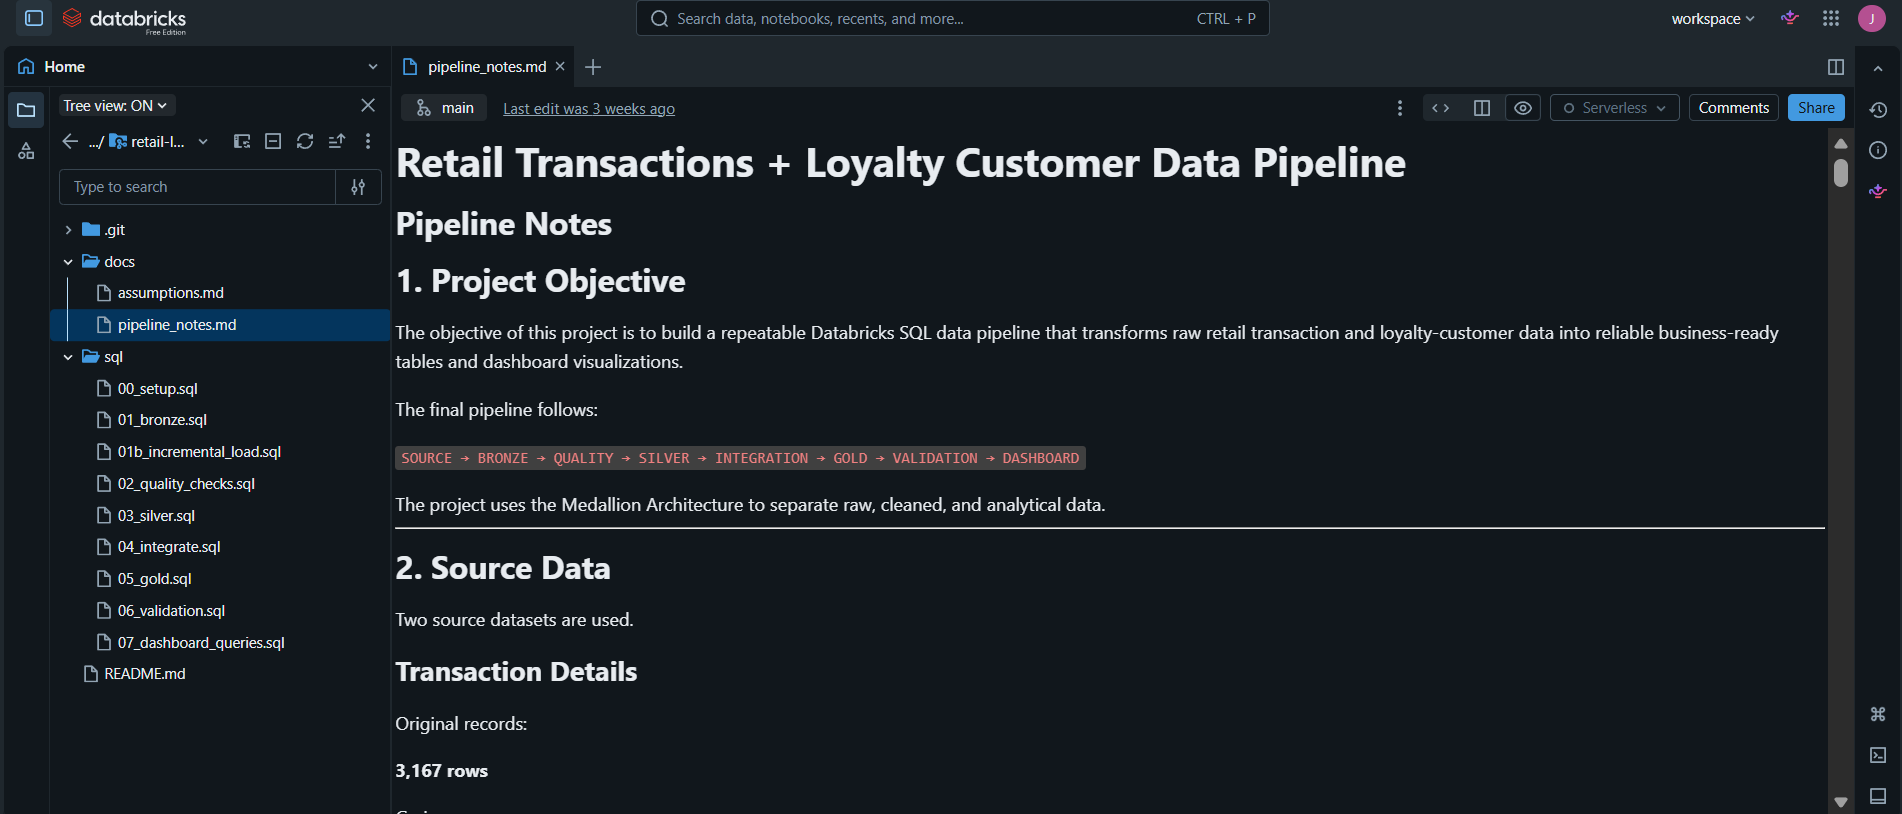
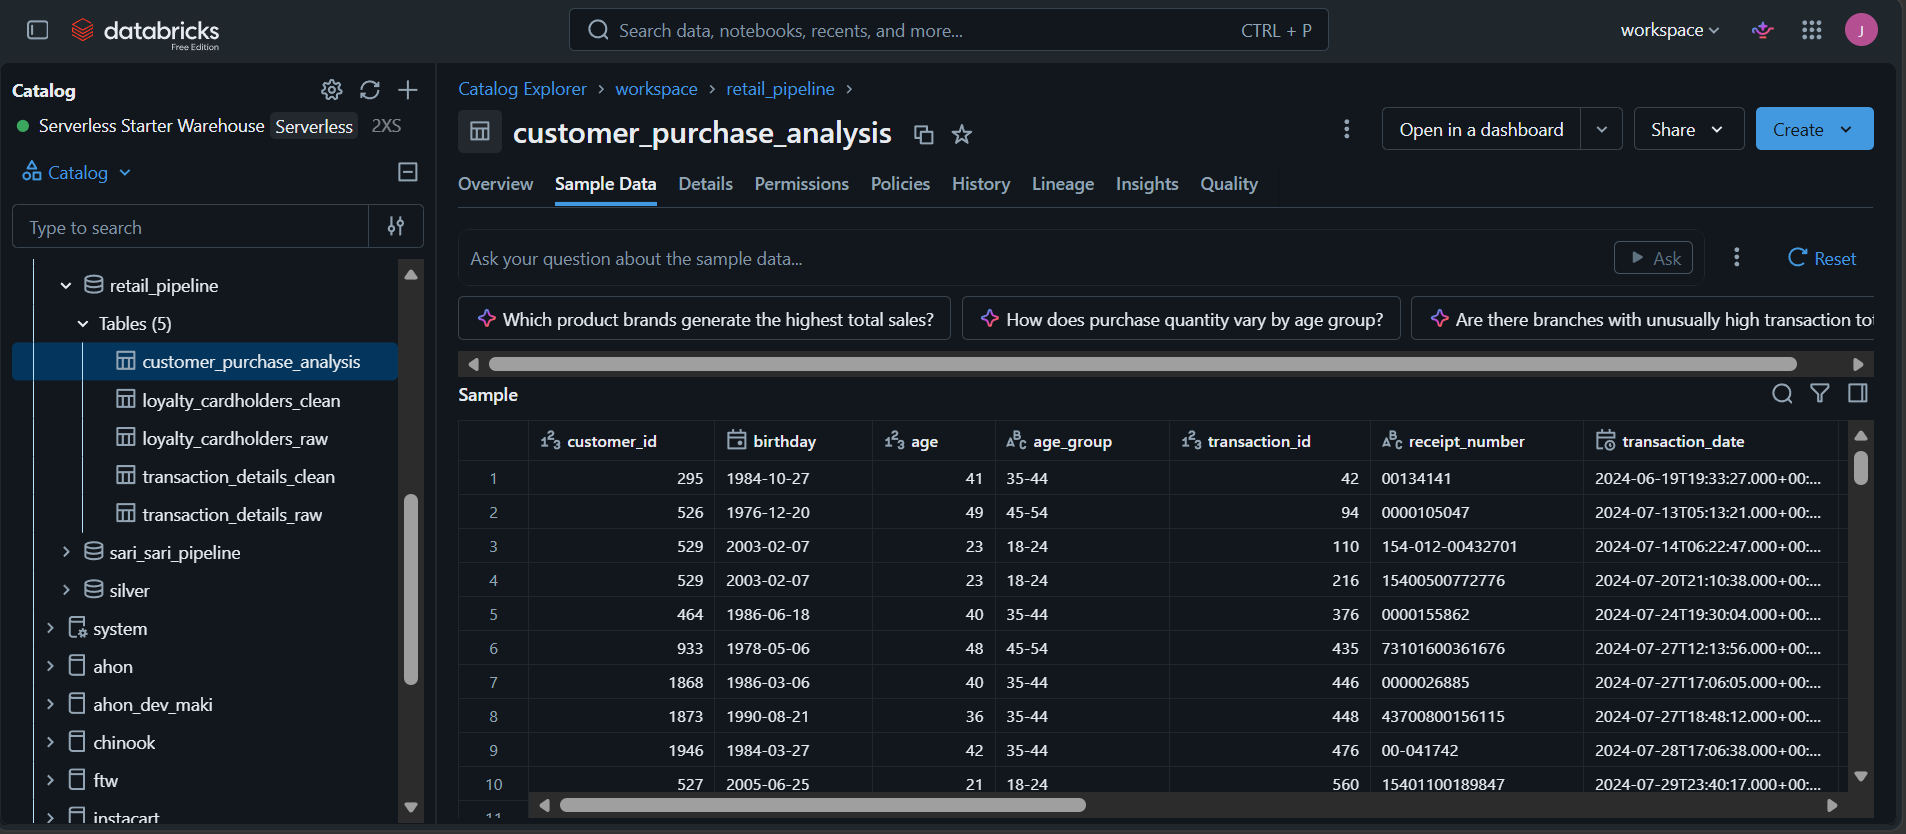
Refine portfolio cards and theme controls

diff --git a/index.html b/index.html
@@ -599,7 +599,7 @@
       transform: translateY(0);
     }
   </style>
-  <link rel="stylesheet" href="assets/css/editorial.css" />
+  <link rel="stylesheet" href="assets/css/editorial.css?v=2" />
   <script>
     try {
       const savedTheme = localStorage.getItem("portfolio-theme");
@@ -759,7 +759,7 @@
               </div>
             </div>
             <div class="about-action-divider" aria-hidden="true"></div>
-            <button type="button" class="btn btn-sm about-resume-button" id="download-resume">Download Resume</button>
+            <!-- <button type="button" class="btn btn-sm about-resume-button" id="download-resume">Download Resume</button> -->
           </div>
         </div>
       </div>
@@ -811,10 +811,9 @@
                 <h6 class="fw-semibold mb-1">Data Engineering Scholar · For The Women Foundation</h6>
                 <p class="muted small mb-2">June 2026 – October 2026</p>
                 <p class="muted small mb-0">
-                  Completed an industry-led data engineering program focused on Databricks, PySpark,
-                  SQL, data modeling, pipeline development, and data governance. Built five
-                  end-to-end data engineering projects and earned 131,000+ DataCamp XP through
-                  technical coursework and practical exercises.
+                  Completed an industry-led program focused on Databricks, PySpark, SQL, data modeling,
+                  pipeline development, and data governance. Delivered five end-to-end data engineering
+                  projects and earned 131,000+ DataCamp XP.
                 </p>
               </div>
             </div>
@@ -887,9 +886,11 @@
               </p>
               <div class="mt-2 d-flex gap-2 flex-wrap">
                 <span class="badge badge-tech">Databricks</span>
-                <span class="badge badge-tech">PySpark · SQL</span>
-                <span class="badge badge-tech">35 CMCI Indicators</span>
-                <span class="badge badge-tech">PSGC Data Quality</span>
+                <span class="badge badge-tech">PySpark</span>
+                <span class="badge badge-tech">Python</span>
+                <span class="badge badge-tech">SQL</span>
+                <span class="badge badge-tech">Medallion Architecture</span>
+                <span class="badge badge-tech">Data Quality</span>
               </div>
               <div class="mt-3 d-flex flex-wrap gap-2">
                 <a href="ahon-capstone-case.html" class="btn btn-outline-primary btn-sm">Read Case Study</a>
@@ -1362,6 +1363,7 @@
               <img src="assets/images/skills/python.png" alt="Python" class="skill-logo" />
               <img src="assets/images/skills/r.png" alt="R" class="skill-logo" />
               <img src="assets/images/skills/sql.png" alt="SQL" class="skill-logo" />
+              <img src="assets/images/skills/apache-spark.svg" alt="Apache Spark for PySpark and Spark SQL" class="skill-logo" />
             </div>
             <h6 class="fw-semibold">Programming Languages & Data Processing</h6>
             <p class="muted small mb-0">Python, SQL, R, PySpark, Spark SQL</p>
@@ -1372,6 +1374,8 @@
           <div class="p-4 skill-card h-100">
             <div class="d-flex justify-content-center gap-3 mb-3">
               <img src="assets/images/skills/databricks.png" alt="Databricks" class="skill-logo" />
+              <img src="assets/images/skills/postgresql.svg" alt="PostgreSQL" class="skill-logo" />
+              <img src="assets/images/skills/git.svg" alt="Git" class="skill-logo" />
               <img src="assets/images/skills/github.png" alt="GitHub" class="skill-logo" />
               <img src="assets/images/skills/jira.png" alt="Jira" class="skill-logo" />
               <img src="assets/images/skills/excel.png" alt="Excel" class="skill-logo" />
@@ -1423,6 +1427,7 @@
                   Certified in data ingestion and transformation, data modeling, Lakeflow Jobs,
                   CI/CD, performance optimization, governance, and security.
                 </p>
+                <button type="button" class="btn btn-secondary btn-sm mt-2" disabled aria-disabled="true">View certificate</button>
               </div>
             </div>
           </div>
@@ -1459,8 +1464,12 @@
                 <p class="muted small mb-2">
                   Completed an industry-led program focused on Databricks, PySpark, SQL, data modeling,
                   pipeline development, and data governance. Delivered five end-to-end data engineering
-                  projects and earned 131,000+ DataCamp XP.
+                  projects and earned 131,000+ DataCamp XP. The program culminated in Project AHON, a
+                  collaborative capstone for disaster-preparedness analytics. Presented the data
+                  pipeline, design decisions, and findings, demonstrating end-to-end data engineering
+                  for analytics and decision support.
                 </p>
+                <button type="button" class="btn btn-secondary btn-sm mt-2" disabled aria-disabled="true">View certificate</button>
               </div>
             </div>
           </div>
@@ -1546,7 +1555,7 @@
   <div id="resume-print" aria-hidden="true"></div>
 
   <script src="https://cdn.jsdelivr.net/npm/bootstrap@5.3.3/dist/js/bootstrap.bundle.min.js"></script>
-  <script src="assets/js/theme-toggle.js"></script>
+  <script src="assets/js/theme-toggle.js?v=2"></script>
 
   <script>
     // Smooth reveal animation on scroll
@@ -1560,6 +1569,7 @@
 
     document.querySelectorAll(".reveal").forEach((el) => observer.observe(el));
 
+    /*
     const resumeButton = document.getElementById("download-resume");
     const resumePrint = document.getElementById("resume-print");
 
@@ -1669,6 +1679,7 @@
       document.body.classList.remove("printing-resume");
       resumePrint.innerHTML = "";
     });
+    */
   </script>
 </body>
 </html>

diff --git a/assets/css/editorial.css b/assets/css/editorial.css
@@ -99,23 +99,29 @@ a:hover {
   display: inline-flex;
   align-items: center;
   justify-content: center;
-  gap: 0.45rem;
-  min-height: 38px;
-  padding: 0.4rem 0.7rem;
+  gap: 0.55rem;
+  min-height: 42px;
+  padding: 0.3rem 0.85rem 0.3rem 0.35rem;
   border: 1px solid var(--border);
-  border-radius: 2px;
+  border-radius: 999px;
   background: var(--card);
   color: var(--text);
   font: inherit;
   font-size: 0.875rem;
+  font-weight: 600;
   line-height: 1;
   white-space: nowrap;
-  transition: color 180ms linear, background-color 180ms linear, border-color 180ms linear;
+  cursor: pointer;
+  box-shadow: 0 2px 6px rgba(51, 33, 27, 0.08);
+  transition: color 180ms linear, background-color 180ms linear, border-color 180ms linear, box-shadow 180ms linear, transform 180ms linear;
 }
 
 .theme-toggle:hover {
   border-color: var(--primary);
   color: var(--primary);
+  background: var(--primary-soft);
+  box-shadow: 0 3px 9px rgba(51, 33, 27, 0.12);
+  transform: translateY(-1px);
 }
 
 .theme-toggle:focus-visible {
@@ -124,7 +130,21 @@ a:hover {
 }
 
 .theme-toggle-icon {
+  display: inline-grid;
+  place-items: center;
+  width: 30px;
+  height: 30px;
+  flex: 0 0 30px;
+  border-radius: 50%;
+  background: var(--primary-soft);
+  color: var(--primary);
   font-size: 1rem;
+  line-height: 1;
+  transition: color 180ms linear, background-color 180ms linear, transform 180ms linear;
+}
+
+.theme-toggle:hover .theme-toggle-icon {
+  transform: rotate(-12deg);
 }
 
 .btn,
@@ -465,6 +485,15 @@ html[data-theme="dark"] .theme-toggle {
   background: var(--card);
   border-color: var(--border);
   color: var(--text);
+}
+
+html[data-theme="dark"] .theme-toggle:hover {
+  background: #302923;
+}
+
+html[data-theme="dark"] .theme-toggle-icon {
+  background: #47372e;
+  color: #edc4a8;
 }
 
 html[data-theme="dark"] .form-control,

diff --git a/e-commerce-case.html b/e-commerce-case.html
@@ -139,7 +139,7 @@
 
     .checklist li { margin-bottom: 0.45rem; }
   </style>
-  <link rel="stylesheet" href="assets/css/editorial.css" />
+  <link rel="stylesheet" href="assets/css/editorial.css?v=2" />
   <script>
     try {
       const savedTheme = localStorage.getItem("portfolio-theme");
@@ -370,6 +370,6 @@
 
     document.querySelectorAll(".reveal").forEach((el) => observer.observe(el));
   </script>
-  <script src="assets/js/theme-toggle.js"></script>
+  <script src="assets/js/theme-toggle.js?v=2"></script>
 </body>
 </html>

diff --git a/mortgage-case.html b/mortgage-case.html
@@ -136,7 +136,7 @@
       margin-bottom: 0.45rem;
     }
   </style>
-  <link rel="stylesheet" href="assets/css/editorial.css" />
+  <link rel="stylesheet" href="assets/css/editorial.css?v=2" />
   <script>
     try {
       const savedTheme = localStorage.getItem("portfolio-theme");
@@ -332,6 +332,6 @@
 
     document.querySelectorAll(".reveal").forEach((el) => observer.observe(el));
   </script>
-  <script src="assets/js/theme-toggle.js"></script>
+  <script src="assets/js/theme-toggle.js?v=2"></script>
 </body>
 </html>

diff --git a/instacart-case.html b/instacart-case.html
@@ -106,7 +106,7 @@
 
     .output-list li { margin-bottom: 0.6rem; }
   </style>
-  <link rel="stylesheet" href="assets/css/editorial.css" />
+  <link rel="stylesheet" href="assets/css/editorial.css?v=2" />
   <script>
     try {
       const savedTheme = localStorage.getItem("portfolio-theme");
@@ -295,6 +295,6 @@
       >View Collaborative GitHub Repository</a>
     </section>
   </main>
-  <script src="assets/js/theme-toggle.js"></script>
+  <script src="assets/js/theme-toggle.js?v=2"></script>
 </body>
 </html>

diff --git a/ahon-capstone-case.html b/ahon-capstone-case.html
@@ -9,7 +9,7 @@
     href="https://cdn.jsdelivr.net/npm/bootstrap@5.3.3/dist/css/bootstrap.min.css"
     rel="stylesheet"
   />
-  <link rel="stylesheet" href="assets/css/editorial.css" />
+  <link rel="stylesheet" href="assets/css/editorial.css?v=2" />
   <script>
     try {
       const savedTheme = localStorage.getItem("portfolio-theme");
@@ -416,6 +416,6 @@
     </footer>
   </main>
 
-  <script src="assets/js/theme-toggle.js"></script>
+  <script src="assets/js/theme-toggle.js?v=2"></script>
 </body>
 </html>

diff --git a/nyc-mobility-case.html b/nyc-mobility-case.html
@@ -9,7 +9,7 @@
     href="https://cdn.jsdelivr.net/npm/bootstrap@5.3.3/dist/css/bootstrap.min.css"
     rel="stylesheet"
   />
-  <link rel="stylesheet" href="assets/css/editorial.css" />
+  <link rel="stylesheet" href="assets/css/editorial.css?v=2" />
   <script>
     try {
       const savedTheme = localStorage.getItem("portfolio-theme");
@@ -314,6 +314,6 @@
     </footer>
   </main>
 
-  <script src="assets/js/theme-toggle.js"></script>
+  <script src="assets/js/theme-toggle.js?v=2"></script>
 </body>
 </html>

diff --git a/oulad-case.html b/oulad-case.html
@@ -9,7 +9,7 @@
     href="https://cdn.jsdelivr.net/npm/bootstrap@5.3.3/dist/css/bootstrap.min.css"
     rel="stylesheet"
   />
-  <link rel="stylesheet" href="assets/css/editorial.css" />
+  <link rel="stylesheet" href="assets/css/editorial.css?v=2" />
   <script>
     try {
       const savedTheme = localStorage.getItem("portfolio-theme");
@@ -315,6 +315,6 @@
     </footer>
   </main>
 
-  <script src="assets/js/theme-toggle.js"></script>
+  <script src="assets/js/theme-toggle.js?v=2"></script>
 </body>
 </html>

diff --git a/chinook-case.html b/chinook-case.html
@@ -99,7 +99,7 @@
 
     .output-list li { margin-bottom: 0.6rem; }
   </style>
-  <link rel="stylesheet" href="assets/css/editorial.css" />
+  <link rel="stylesheet" href="assets/css/editorial.css?v=2" />
   <script>
     try {
       const savedTheme = localStorage.getItem("portfolio-theme");
@@ -289,6 +289,6 @@
       >View Collaborative Repository</a>
     </section>
   </main>
-  <script src="assets/js/theme-toggle.js"></script>
+  <script src="assets/js/theme-toggle.js?v=2"></script>
 </body>
 </html>

diff --git a/retail-loyalty-case.html b/retail-loyalty-case.html
@@ -101,7 +101,7 @@
 
     .output-list li { margin-bottom: 0.6rem; }
   </style>
-  <link rel="stylesheet" href="assets/css/editorial.css" />
+  <link rel="stylesheet" href="assets/css/editorial.css?v=2" />
   <script>
     try {
       const savedTheme = localStorage.getItem("portfolio-theme");
@@ -265,6 +265,6 @@
       </div>
     </section>
   </main>
-  <script src="assets/js/theme-toggle.js"></script>
+  <script src="assets/js/theme-toggle.js?v=2"></script>
 </body>
 </html>
